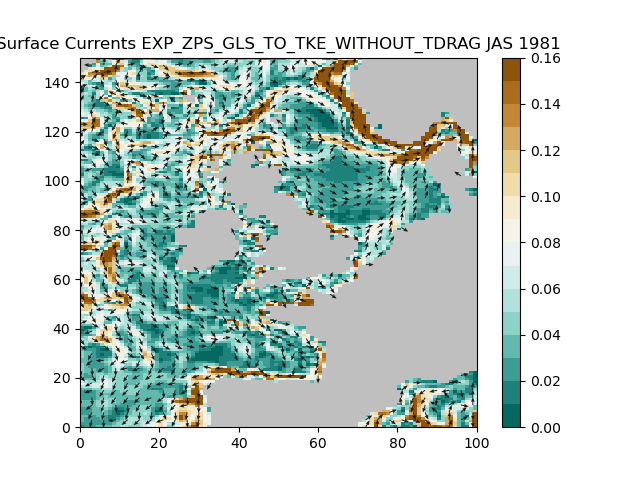
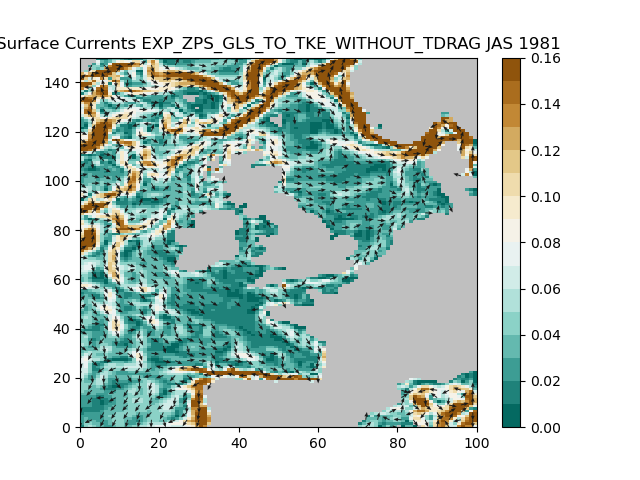
update

Changed region(s): [[0.125, 0.125, 0.75, 0.9062], [0.5625, 0.75, 0.75, 0.9062]]

diff --git a/Analysis/Python/circulation.py b/Analysis/Python/circulation.py
@@ -40,6 +40,9 @@ DOMS=[dom_dir1+'domcfg_eORCA025_v2.nc',
       dom_dir1+'domcfg_eORCA025_v2.nc',
       dom_dir2+'domain_cfg_r015-r010_007_004v2.nc',
       dom_dir3+'domain_cfg_ztaper_match.nc',
+      dom_dir1+'domcfg_eORCA025_v2.nc',
+      dom_dir1+'domcfg_eORCA025_v2.nc',
+      dom_dir1+'domcfg_eORCA025_v2.nc',      
       dom_dir2+'domain_cfg_r015-r010_007_004v2.nc'      
       ]
 #DOMS=['/work/jholt/JASMIN//SENEMO/JDHA/TO_SORT/SE-NEMO/EXP_SZT39_TAPER_TIDE/domain_cfg_ztaper_match.nc']
@@ -60,12 +63,24 @@ else:
             '/gws/nopw/j04/class_vol2/senemo/cwilso01/senemo/EXP_ZPS_GLS_TIDE_WITH_TDRAG/OUTPUTS/',
             '/gws/nopw/j04/class_vol2/senemo/jdha/SHORT_TESTS/EXP_MES_WAV_NTM/',
             '/gws/nopw/j04/class_vol2/senemo/jdha/LONG_TESTS/EXP_SZT_TIDE/',
+            '/gws/nopw/j04/class_vol2/senemo/cwilso01/senemo/EXP_ZPS_GLS_TIDE_WITHOUT_TDRAG',
+            '/gws/nopw/j04/class_vol2/senemo/cwilso01/senemo/EXP_ZPS_GLS_TIDE_WITH_TDRAG',
+            '/gws/nopw/j04/class_vol2/senemo/cwilso01/senemo/EXP_ZPS_GLS_TO_TKE_WITHOUT_TDRAG',
             '/gws/nopw/j04/class_vol2/senemo/slwa/EXP_MES_WAV_NTM_RIV/'
             ]
 
 
 
-names=['NOTIDE','Tide','EXP_MES_WAV_NTM','EXP_SZT_TIDE','EXP_MES_WAV_NTM']
+names=['NOTIDE',
+       'Tide',
+       'EXP_MES_WAV_NTM',
+       'EXP_SZT_TIDE',
+       'EXP_MES_WAV_NTM',
+       'EXP_ZPS_GLS_TIDE_WITHOUT_TDRAG',
+       'EXP_ZPS_GLS_TIDE_WITH_TDRAG',
+       'EXP_ZPS_GLS_TO_TKE_WITHOUT_TDRAG',
+       'EXP_MES_WAV_NTM_RIV'
+]
 #names=['EXP_MES_WAV_NTM']
 #names=['EXP_SZT_TIDE']
 
@@ -168,7 +183,7 @@ ystop=1981
 jmin,jmax=[860,1010]
 imin,imax=[1080,1180]
 plt.close('all')
-for i,name in enumerate(names): 
+for i,name in enumerate([names[7]]): 
 
     fn_nemo_dat_u= coast.nemo_filenames(dpaths[i],'SENEMO',ystart,ystop,grid='U') 
     fn_nemo_dat_v= coast.nemo_filenames(dpaths[i],'SENEMO',ystart,ystop,grid='V') 
